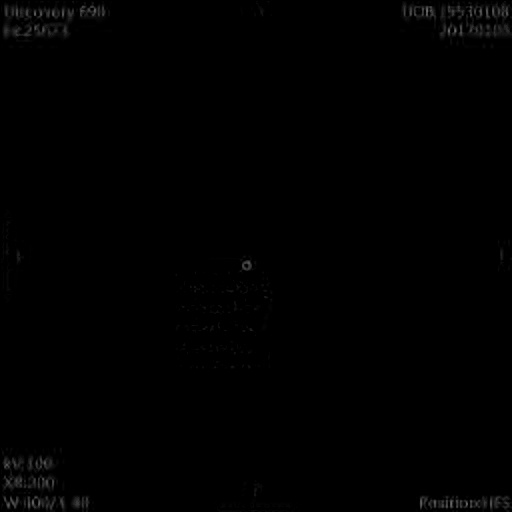
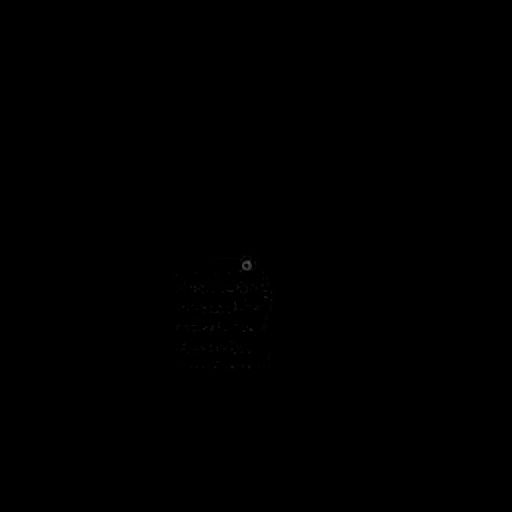
Clean Edge Hough Circle Update.

diff --git a/MedicalMark/mark.py b/MedicalMark/mark.py
@@ -7,6 +7,7 @@ import numpy as np
 # 图像预处理，获得图像中红色的元素
 img = cv2.imread("test3.jpg")
 
+# pre-processing image
 row = img.shape[0]
 # print row
 col = img.shape[1]
@@ -30,13 +31,35 @@ for i in range(1, row):
         emptyImage[i, j] = diff1 if diff1 < diff2 else diff2
 
 cv2.imwrite("test.jpg", emptyImage)
+# pre-processing image finished
+
+# Clean Edge
+left = 0.075
+right = 0.075
+top = 0.15
+bottom = 0.15
+
+edge = [left * row,
+        row - right * row,
+        top * col,
+        col - bottom * row]
+
+for i in range(1, row):
+    for j in range(1, int(edge[0])):
+        emptyImage[i, j] = 0
+    for j in range(int(edge[1]), col):
+        emptyImage[i, j] = 0
+
+for j in range(1, col):
+    for i in range(1, int(edge[2])):
+        emptyImage[i, j] = 0
+    for i in range(int(edge[3]), row):
+        emptyImage[i, j] = 0
+
+cv2.imwrite("test.jpg", emptyImage)
 
 
 
-
-
-# opencv image show in python
-# BGR image
 
 
 
